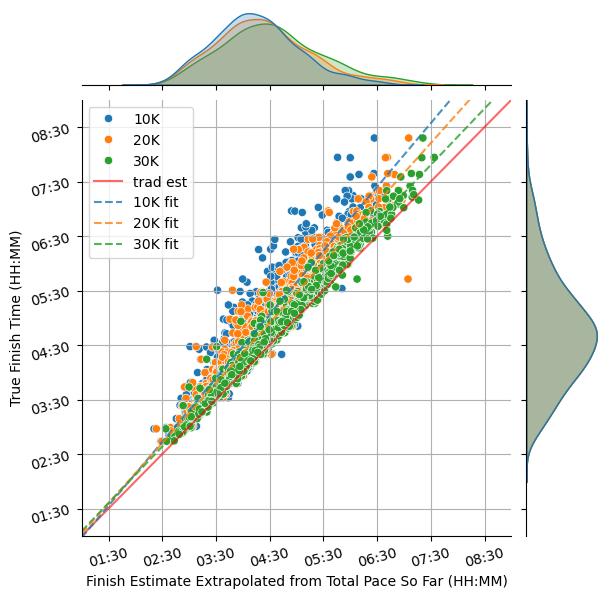
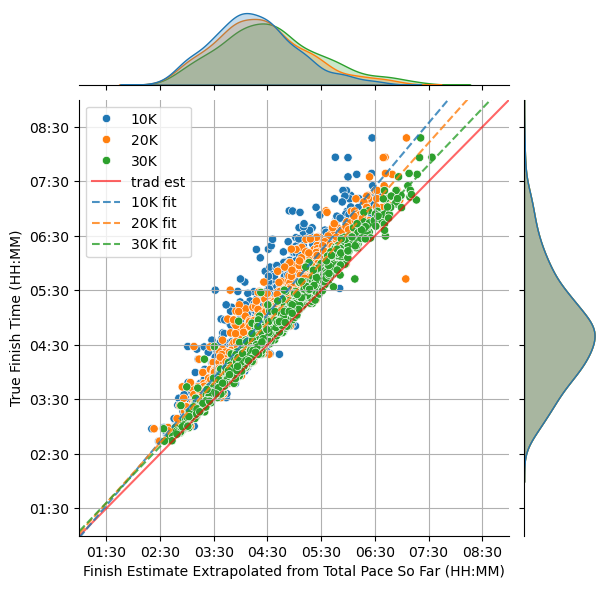
Update plots

diff --git a/plots.py b/plots.py
@@ -14,14 +14,16 @@ def get_plot_dist(races=["bos", "nyc", "chi"], yrs=[2022, 2023]):
     ticks = (60, 120, 180, 240, 300, 360, 420, 480, 540, 600)
     train_list = [(r, pd.read_csv(f"processed_data/full_data_{r}.csv")) for r in races]
 
-    for lbl, train_data in train_list:
+    for i, (lbl, train_data) in enumerate(train_list):
         # minutes_dist = train_data[train_data["Year"].isin(yrs)]["Finish Net"] // 60
         minutes_dist = train_data["Finish Net"] // 60
         bins = binning(minutes_dist)
-        minutes_dist.hist(bins=bins, alpha=0.6, density=True, label=lbl)
+        minutes_dist.hist(bins=bins, alpha=0.2, density=True, color=f"C{i}")
+        d2 = np.bincount(minutes_dist)
+        plt.plot(range(len(d2)), d2 / sum(d2), color=f"C{i}", linewidth=0.8, label=lbl)
     labels = [int_to_str_time(60 * t, no_secs=True) for t in ticks]
     plt.xticks(ticks, labels=labels)
-    plt.xlim(ticks[1] - 30, ticks[-2] + 30)
+    plt.xlim(ticks[1] - 15, ticks[-2] - 45)
     plt.xlabel(f"Time (HH:MM)")
     plt.ylabel("Frequency")
     plt.title(f"Distribution of Marathon Finish Times")
@@ -47,8 +49,8 @@ def get_extrap_scatter(racename="bos", sample_size=1000, yrs=[2022, 2023]):
     plt.ylabel("True Finish Time (HH:MM)")
 
     labels = [int_to_str_time(60 * t, no_secs=True) for t in ticks]
-    plt.xticks(ticks, labels=labels, rotation=15)
-    plt.yticks(ticks, labels=labels, rotation=15)
+    plt.xticks(ticks, labels=labels, rotation=0)
+    plt.yticks(ticks, labels=labels, rotation=0)
 
     for dist, color in [("10K", "blue"), ("20K", "orange"), ("30K", "green")]:
         small_data = table[table["dist"] == dist]
